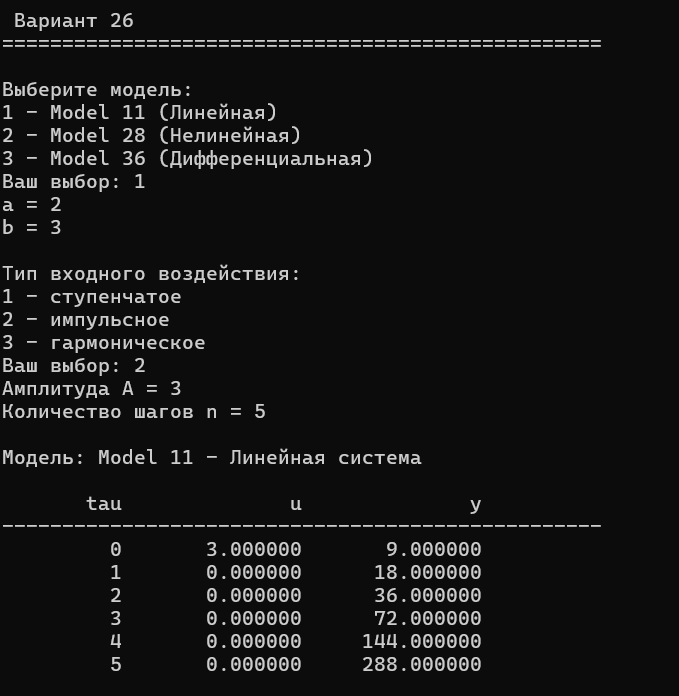
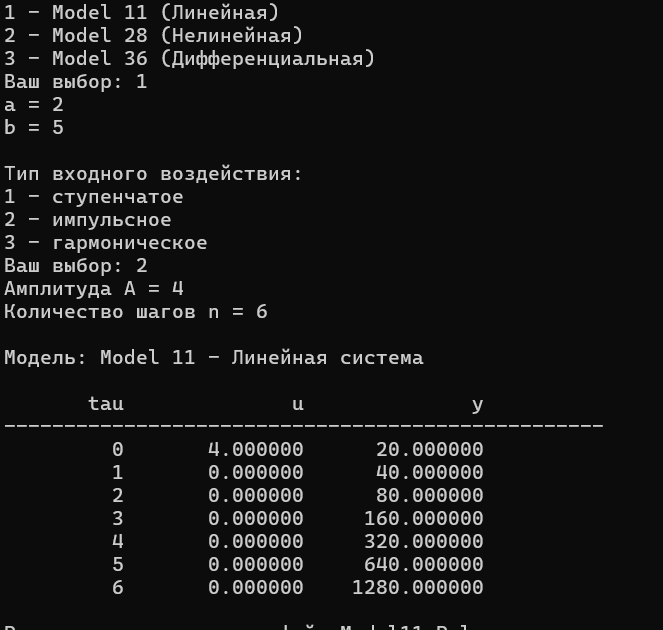
исправила

diff --git a/trunk/ii03024/task_01/doc/readme.md b/trunk/ii03024/task_01/doc/readme.md
@@ -22,59 +22,149 @@
 
 <p align="center">Брест 2026</p>
 
----
+## Цель работы
+
+Изучить принципы математического моделирования динамических систем, реализовать заданные модели с использованием объектно-ориентированного подхода и исследовать их поведение при различных входных воздействиях.
 
 ## Вариант 26
 
-* **Линейная модель:** Model 11
-* **Нелинейная модель:** Model 28
-* **Дифференциальное уравнение:** Model 36
+В соответствии с заданным вариантом необходимо реализовать следующие модели:
 
-В данной лабораторной работе разработана консольная программа на языке C++ для моделирования динамики управляемого объекта (температуры объекта) под воздействием различных типов входных сигналов.
+- Линейная модель — **Model 11**
+- Нелинейная модель — **Model 28**
+- Дифференциальное уравнение — **Model 36**
 
-**В программе реализованы три модели:**
+## Реализованные модели
 
-* **Model 11 (Линейная модель)**
-* **Model 28 (Нелинейная модель)**
-* **Model 36 (Дифференциальная модель)**
+### Model 11 — линейная модель
 
-**Для каждой модели поддерживается три типа входного сигнала $u(\tau)$:**
-- Ступенчатый
-- Импульсный
-- Гармонический
+Для моделирования используется разностное уравнение:
 
-Пользователь в интерактивном режиме вводит параметры выбранной модели, задает амплитуду входного сигнала $A$ и число шагов моделирования $n$.
+$$y(t+1) = a_1 \cdot y(t) + a_2 \cdot y(t-1) + b \cdot u(t)$$
 
+где:
+- $y(t)$ — текущее значение выходного сигнала;
+- $y(t-1)$ — предыдущее значение выходного сигнала;
+- $u(t)$ — входное воздействие;
+- $a_1, a_2, b$ — коэффициенты модели.
+
+На каждом шаге вычисляется новое значение $y(t+1)$.
+
+### Model 28 — нелинейная модель
+
+Нелинейная модель задаётся выражением:
+
+$$y(t+1) = a \cdot y(t) + b \cdot \text{sign}(u(t)) \cdot (1 - \exp(-|u(t)|))$$
+
+В данной модели используется функция знака:
+
+$$\text{sign}(u) = \begin{cases} 1, & \text{если } u > 0 \\ -1, & \text{если } u < 0 \\ 0, & \text{если } u = 0 \end{cases}$$
+
+Нелинейность модели определяется выражением $1 - \exp(-|u(t)|)$, где $a$ и $b$ являются коэффициентами модели.
+
+### Model 36 — дифференциальная модель
+
+Дифференциальное уравнение имеет вид:
+
+$$\frac{dy}{dt} = -\exp(a) \cdot y + b \cdot u$$
+
+Для численного решения используется метод Эйлера.
+
+Формула расчёта:
+
+$$y(t+1) = y(t) + dt \cdot (-\exp(a) \cdot y(t) + b \cdot u(t))$$
+
+где:
+- $dt$ — шаг интегрирования;
+- $a, b$ — коэффициенты модели;
+- $u(t)$ — входное воздействие;
+- $y(t)$ — текущее значение выходной величины.
+
+Метод Эйлера позволяет заменить дифференциальное уравнение последовательностью вычислений на отдельных временных шагах.
+
+## Входные воздействия
+
+Для исследования моделей были реализованы три вида входных воздействий.
+
+### 1. Ступенчатое воздействие
+
+При ступенчатом воздействии значение входного сигнала постоянно:
+
+$$u(t) = A$$
+
+где $A$ — заданная амплитуда.
+
+Такое воздействие позволяет исследовать переходный процесс системы при постоянном входном сигнале.
+
+### 2. Импульсное воздействие
+
+Для импульсного воздействия используется:
+
+$$u(0) = A, \quad u(t > 0) = 0$$
+
+То есть сигнал имеет заданное значение только на первом временном шаге, после чего становится равным нулю.
+
+### 3. Гармоническое воздействие
+
+Гармоническое воздействие задаётся формулой:
+
+$$u(t) = A \cdot \sin(t)$$
+
+где $A$ — амплитуда гармонического сигнала.
+
+Такой тип воздействия позволяет исследовать реакцию системы на периодически изменяющийся входной сигнал.
+
+## Объектно-ориентированная реализация
+
+Для реализации моделей был использован объектно-ориентированный подход.
+
+Создан абстрактный базовый класс `Model`, содержащий виртуальный метод `calculateNext()`. Данный метод отвечает за вычисление следующего значения выходного сигнала.
+
+От базового класса наследуются три специализированных класса:
+
+- `Model11` — линейная модель;
+- `Model28` — нелинейная модель;
+- `Model36` — модель дифференциального уравнения.
+
+Каждый дочерний класс реализует собственную формулу вычисления.
+
+Такой подход позволяет работать с различными моделями через общий интерфейс базового класса.
 ---
+## Работа программы
 
-## Архитектурное решение
+После запуска программы пользователю предлагается выбрать модель для исследования.
 
-В проекте применен ООП-подход на основе полиморфизма. Создан абстрактный базовый класс `Model`, определяющий единый интерфейс для всех математических моделей:
-- Хранение выходного значения `y`
-- Чисто виртуальная функция `nextStep(double u, double dt)` для вычисления следующего состояния
-- Виртуальная функция `getName()` для получения названия модели
+Далее вводятся необходимые параметры модели и выбирается тип входного воздействия.
 
-От класса `Model` наследуются специализированные классы:
-- `Model11` — реализует линейную дискретную модель
-- `Model28` — реализует нелинейную модель
-- `Model36` — реализует численный расчет дифференциальной модели
+Программа позволяет:
 
-После выполнения всех шагов расчета программа:
-1. Выводит результатирующую таблицу $(\tau, u, y)$ в консоль.
-2. Автоматически сохраняет данные в CSV-файл (например, `Model11_Step.csv`).
-3. Генерирует временный скрипт Gnuplot и **автоматически визуализирует график** изменения выходной величины $y(\tau)$.
+- выбрать одну из трёх моделей;
+- ввести коэффициенты модели;
+- выбрать тип входного воздействия;
+- задать амплитуду сигнала;
+- задать количество временных шагов;
+- выполнить моделирование;
+- вывести полученные значения в консоль;
+- использовать полученные данные для построения графика.
 
----
+## Сборка программы
 
-## Демонстрация линейной модели
+Для сборки проекта используется система **CMake**.
 
-**График ступенчатого воздействия:**
+На Windows запуск сборки осуществляется с помощью файла `build.bat`.
+
+## Демонстрация работы программы
+
 ![](prim.png)
 ![Model 11 Step](plot.png)
 
 ---
 
----
-
 ## Вывод
-В ходе выполнения лабораторной работы были изучены и реализованы дискретные математические модели объектов управления (линейная, нелинейная и дифференциальная). Разработанная программа на C++ позволяет исследовать отклик системы $y(\tau)$ на различные входные воздействия $u(\tau)$, сохранять полученные результаты в стандартизированном формате `.csv` и визуализировать их с помощью автоматической интеграции с утилитой Gnuplot.
+В ходе лабораторной работы были изучены основные принципы моделирования динамических систем. Были реализованы линейная модель Model 11, нелинейная модель Model 28 и модель дифференциального уравнения Model 36.
+
+Для каждой модели была реализована возможность работы со ступенчатым, импульсным и гармоническим входными воздействиями. Для решения дифференциального уравнения использовался метод Эйлера.
+
+При разработке программы был применён объектно-ориентированный подход с использованием абстрактного базового класса и наследования. Результаты вычислений выводятся в консоль, сохраняются в CSV-файл и используются для построения графиков.
+
+В результате была получена программа, позволяющая исследовать поведение различных динамических моделей при различных входных воздействиях.
